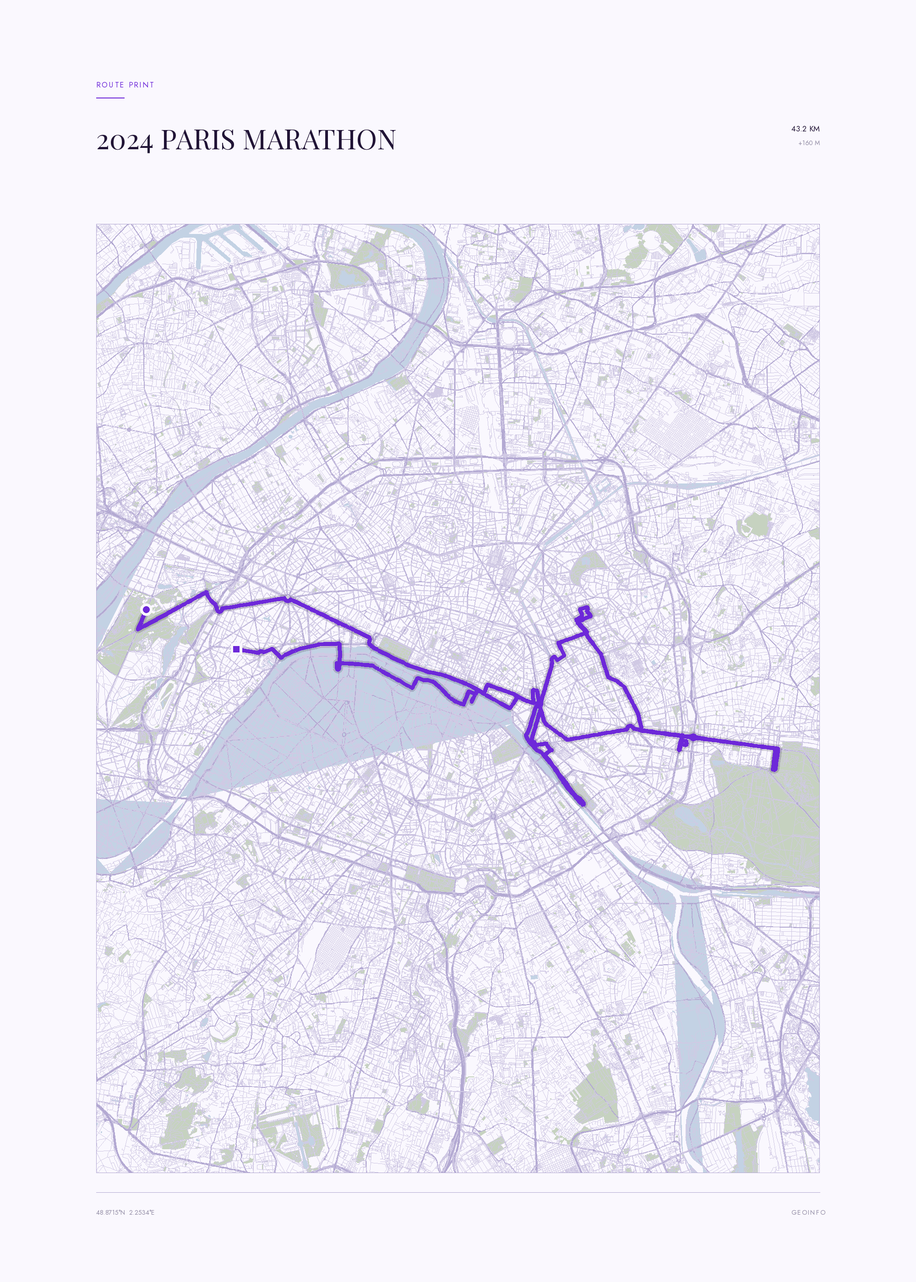
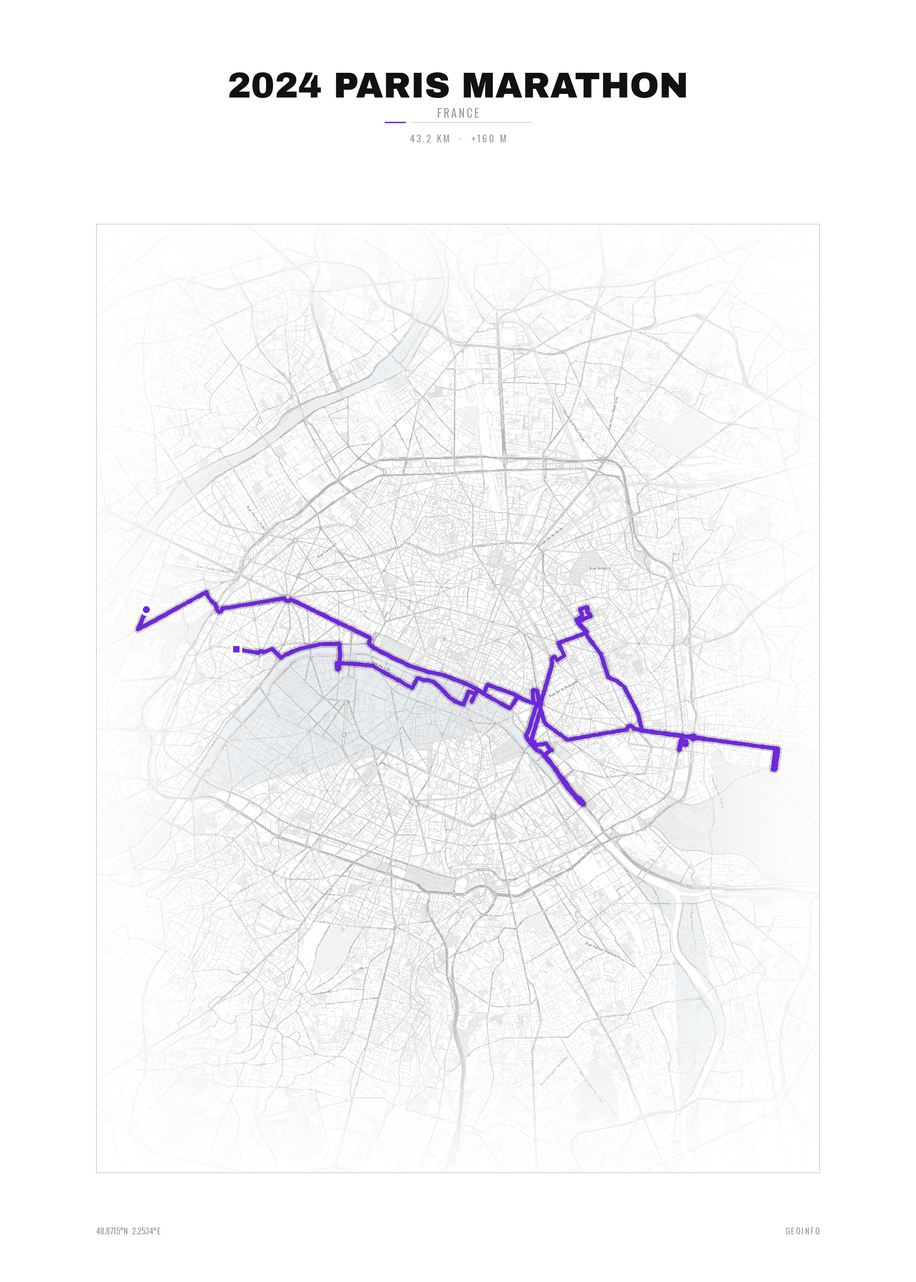
Mapiful-enhanced poster line + room mockups

diff --git a/index.html b/index.html
@@ -170,7 +170,7 @@ footer .wrap{display:flex;justify-content:space-between;gap:18px;flex-wrap:wrap}
       <div class="prod">
         <div class="ico">🏃</div>
         <h3>Route Poster</h3>
-        <p>Your Strava or GPX track drawn to scale, with the elevation profile. The marathon, the long run, the road trip.</p>
+        <p>Your Strava or GPX track drawn to scale on a real street map, with every road named. The marathon, the long run, the road trip.</p>
       </div>
     </div>
   </div>
@@ -178,9 +178,16 @@ footer .wrap{display:flex;justify-content:space-between;gap:18px;flex-wrap:wrap}
 
 <!-- SAMPLES -->
     <section class="wrap">
-      <h2 class="sec">In The Room</h2>
-      <p class="lede">Real rooms, real light, real frames.<br>
-      One colour per print. Ten by fourteen inches, print-ready.</p>
+      <h2 class="sec">Mapiful, Enhanced</h2>
+      <p class="lede">The city drawn in quiet grey. One saturated colour for the route.<br>
+      Every street named, the river in soft blue, the parks in pale green &mdash; and your
+      route the only strong thing on the sheet.</p>
+
+      <div class="grid4" style="margin-bottom:34px">
+        <div class="sample"><img src="assets/MAPIFUL_COLORWAYS.png" alt="Eight Mapiful-enhanced route prints in five route colours" style="grid-column:1/-1;aspect-ratio:auto"><div class="cap">THE PRINT LINE &middot; FIVE ROUTE COLOURS</div></div>
+      </div>
+
+      <p class="lede" style="margin-bottom:22px">And in a room &mdash; real light, real frames.</p>
 
       <div class="grid4">
         <div class="sample"><img src="assets/paris-clay_nordic.jpg" alt="Paris Marathon route print framed in a Nordic room"><div class="cap">PARIS &middot; CLAY RED</div></div>
@@ -193,7 +200,7 @@ footer .wrap{display:flex;justify-content:space-between;gap:18px;flex-wrap:wrap}
         <div class="sample"><img src="assets/paris-orange_modern.jpg" alt="Paris Marathon orange route print framed in a modern room"><div class="cap">PARIS &middot; ORANGE</div></div>
         <div class="sample"><img src="assets/marseille_nordic.jpg" alt="Marseille-Cassis route print framed in a room"><div class="cap">MARSEILLE-CASSIS &middot; 44.6 KM</div></div>
         <div class="sample"><img src="assets/boston_gallery.jpg" alt="Boston Marathon route print framed in a gallery"><div class="cap">BOSTON &middot; 43.0 KM</div></div>
-        <div class="sample"><img src="assets/paris-clay_lean.jpg" alt="Paris Marathon route print leaning against a wall"><div class="cap">PARIS &middot; LEANING</div></div>
+        <div class="sample"><img src="assets/paris-leaning.jpg" alt="Paris Marathon route print leaning against a wall"><div class="cap">PARIS &middot; LEANING</div></div>
       </div>
 
       <p style="color:var(--sub);font-size:13.5px;margin-top:26px;text-align:center">
